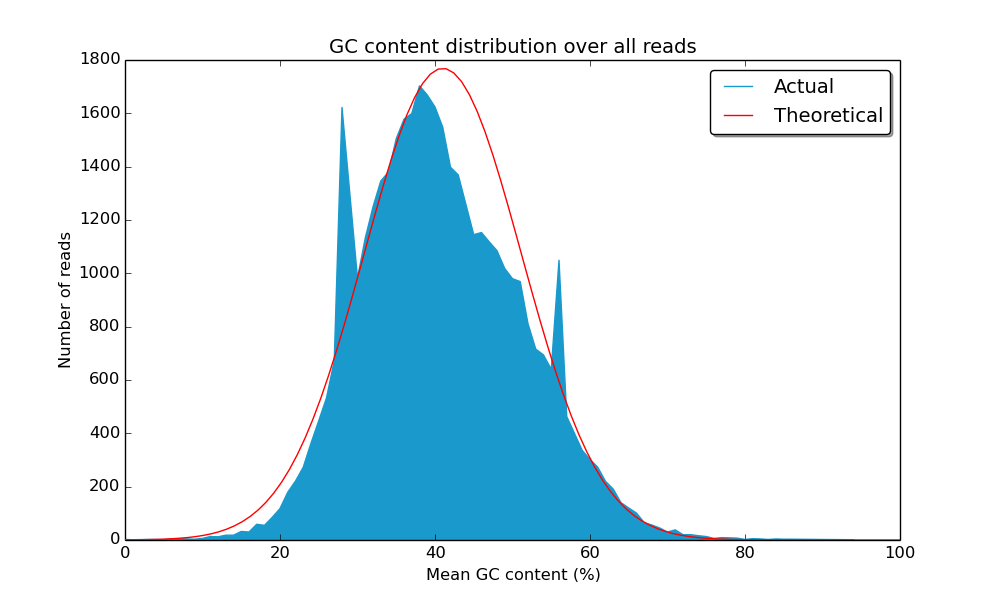
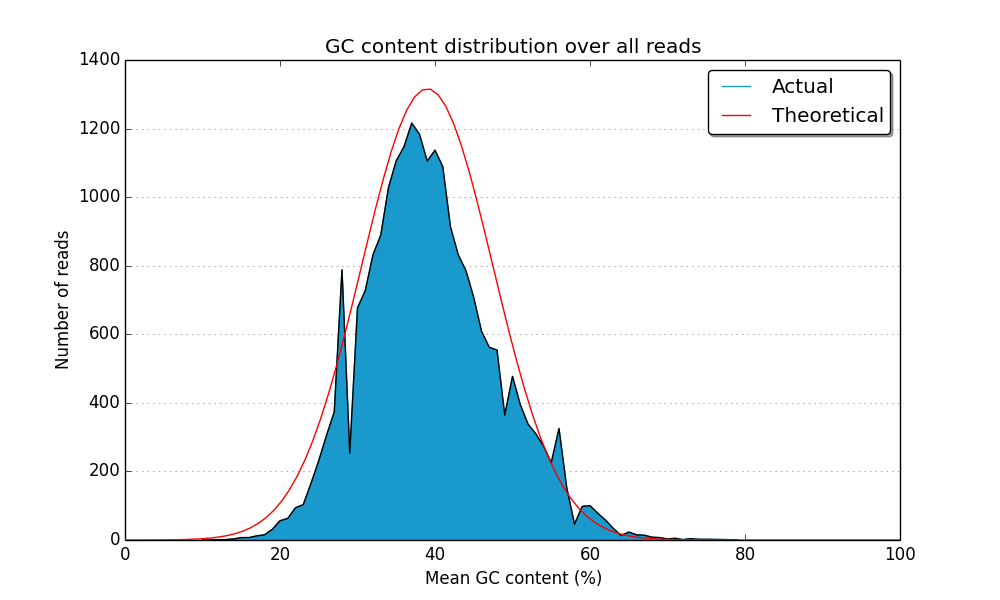
updated color schemes and examples

diff --git a/fastqp.py b/fastqp.py
@@ -336,8 +336,11 @@ def qualplot(positions, quantiles, filename, fig_kw):
     ax.plot(positions, Q2, color=(1.,.4,0.))
     ax.plot(positions, Q1, color=(1.,.2,0.))
     ax.plot(positions, Q2, color='black')
+    x1,x2,y1,y2 = ax.axis()
+    ax.axis((x1,x2,0,max(Q4)))
     box = ax.get_position()
     ax.set_position([box.x0, box.y0, box.width * 0.9, box.height])
+    ax.yaxis.grid(b=True, which='major', **{'color':'gray', 'linestyle':':'})
     ax.legend(('100-75%', '75-50%', '50-25%', '25-0%', 'Median'), bbox_to_anchor=(1, 0.5), 
                 fancybox=True, shadow=True, loc='center left')
     ax.set_title('Quality score percentiles across all bases in all reads')
@@ -353,15 +356,18 @@ def qualdist(qualities, filename, fig_kw):
     counts = Counter()
     for value in values:
         counts = counts + value
+    ax.plot(counts.keys(), counts.values(), color='black')
     ax.fill_between(counts.keys(), counts.values(), color=(0.1,0.6,0.8))
+    ax.yaxis.grid(b=True, which='major', **{'color':'gray', 'linestyle':':'})
+    ax.set_axisbelow(True)
+    x1,x2,y1,y2 = ax.axis()
+    ax.axis((x1,max(counts.keys()),y1,y2))
     ax.set_title('Quality score distribution across all base positions')
     ax.set_xlabel('Quality score (phred)')
     ax.set_ylabel('Number of positions (bp)')
     plt.savefig(filename + '_qualdist.png')
     
 def qualmap(qualities, filename, fig_kw):
-    for key in qualities.keys():
-        print qualities[key]
     fig = plt.figure(**fig_kw)
     ax = fig.add_subplot(111)
     fig.subplots_adjust(top=0.95)
@@ -378,12 +384,9 @@ def qualmap(qualities, filename, fig_kw):
                 heat_map[q][p] = qualities[p+1][q+1]
             except KeyError:
                 pass
-        sys.stderr.write('\n')
-    for row in heat_map:
-        print row
     imax = ax.imshow(np.array(heat_map), cmap=plt.cm.gist_heat, origin='lower', interpolation='none')
     cbar = fig.colorbar(imax, orientation='horizontal')
-    cbar.ax.set_title('Density')
+    cbar.ax.set_title('counts')
     ax.set_title('Quality score density across all base positions')
     ax.set_xlabel('Position in read (bp)')
     ax.set_ylabel('Quality score (phred)')
@@ -391,41 +394,38 @@ def qualmap(qualities, filename, fig_kw):
     
 def nucplot(positions, nucs, counts, filename, fig_kw):
     max_depth = sum(counts[0].values())
-    colors = [(.5,.5,.5),
-              (1,0,0),
-              (0,1,0),
-              (0,.5,1),
-              (1,1,0),
-              (0,1,1),
-              (1,0,1),
-              (1,1,1),
-              (.5,0,0),
-              (0,.5,0)]
+    cmap = mpl.cm.get_cmap(name='Set1')
+    colors = [cmap(i) for i in np.linspace(0, 1, len(nucs))]
     mpl.rc('axes', color_cycle=colors)
-    fig, axes = plt.subplots(nrows=1, subplot_kw={'axis_bgcolor':'black'}, **fig_kw)
+    fig, axes = plt.subplots(nrows=1, subplot_kw={'axis_bgcolor':'white'}, **fig_kw)
     for i,count in enumerate(counts):
         max_depth = sum(count.values())
         for nuc in nucs:
             counts[i][nuc] = float(count[nuc]) / max_depth * 100
-    for nuc in nucs:
-        axes.plot(positions, [count[nuc] for count in counts])
+    nuc_order = ['A','T','C','G','N','M','R','W','S','Y','K','V','H','D','B']
+    for nuc in nuc_order:
+        if nuc in nucs:
+            axes.plot(positions, [count[nuc] for count in counts])
     # Shink current axis by 20%
     box = axes.get_position()
     axes.set_position([box.x0, box.y0, box.width * 0.9, box.height])
+    axes.yaxis.grid(b=True, which='major', **{'color':'gray', 'linestyle':':'})
+    axes.set_axisbelow(True)
     axes.set_title('Sequence content across all bases in all reads')
     axes.set_xlabel('Position in read (bp)')
-    axes.set_ylabel('Sequence content (% basecall)')
-    legend = axes.legend(tuple(nucs), bbox_to_anchor=(1, 0.5), 
+    axes.set_ylabel('Sequence content (% basecall)')     
+    legend = axes.legend(tuple((n for n in nuc_order if n in nucs)), bbox_to_anchor=(1, 0.5), 
                 fancybox=True, shadow=True, loc='center left')
     frame = legend.get_frame()
-    frame.set_facecolor('black')
+    frame.set_facecolor('white')
     for label in legend.get_texts():
-        label.set_color('white')
+        label.set_color('black')
     plt.savefig(filename + '_nucs.png')
     
 def depthplot(positions, depths, filename, fig_kw):
     fig, axes = plt.subplots(nrows=1, **fig_kw)
-    axes.fill_between(positions, depths, color=(0.1,0.6,0.8))
+    axes.plot(positions, depths, color=(0.1,0.6,0.8))
+    axes.yaxis.grid(b=True, which='major', **{'color':'gray', 'linestyle':':'})
     axes.set_title('Coverage of each position across all reads')
     axes.set_xlabel('Position in read (bp)')
     axes.set_ylabel('Number of reads')
@@ -440,6 +440,8 @@ def gcplot(positions, counts, filename, fig_kw):
     axes.plot(positions, gcs, color=(0.1,0.6,0.8))
     x1,x2,y1,y2 = axes.axis()
     axes.axis((x1,x2,0,100))
+    axes.yaxis.grid(b=True, which='major', **{'color':'gray', 'linestyle':':'})
+    axes.set_axisbelow(True)
     axes.set_title('GC content across all bases in all reads')
     axes.set_xlabel('Position in read (bp)')
     axes.set_ylabel('GC (%)')
@@ -452,6 +454,7 @@ def gcdist(counts, filename, fig_kw):
     sigma = math.sqrt(variance)
     x = np.linspace(0,100,100)
     fig, axes = plt.subplots(nrows=1, **fig_kw)
+    axes.plot(counts.keys(), counts.values(), color='black')
     axes.fill_between(counts.keys(), counts.values(), color=(0.1,0.6,0.8))
     axes2 = axes.twinx()
     axes2.plot(x,mlab.normpdf(x,m,sigma), color='red')
@@ -463,6 +466,8 @@ def gcdist(counts, filename, fig_kw):
     legend = axes.legend([handle for i,handle in enumerate(handles) if i in display]+[a,b],
                          [label for i,label in enumerate(labels) if i in display]+['Actual','Theoretical'],
                 fancybox=True, shadow=True)
+    axes.yaxis.grid(b=True, which='major', **{'color':'gray', 'linestyle':':'})
+    axes.set_axisbelow(True)
     axes.set_title('GC content distribution over all reads')
     axes.set_xlabel('Mean GC content (%)')
     axes.set_ylabel('Number of reads')

diff --git a/README.md b/README.md
@@ -59,43 +59,55 @@ Examples
 
 ![depth plot](https://raw.github.com/mdshw5/fastqp/master/examples/example_depth.png)
 
+![quality heatmap](https://raw.github.com/mdshw5/fastqp/master/examples/example_qualmap.png)
+
 ![quality distribution](https://raw.github.com/mdshw5/fastqp/master/examples/example_qualdist.png)
 
 ### Tabular output
 
     Pos	Depth	0.05	0.25	0.5	0.75	0.95	A	C	T	G	N
-    1	4.0E+04	30	31	33	34	34	11750	8400	10644	9194	12
-    2	4.0E+04	30	31	34	34	34	12589	7843	11610	7958	0
-    3	4.0E+04	30	31	34	34	34	11808	7788	12924	7480	0
-    4	4.0E+04	33	35	37	37	37	11498	8445	12273	7784	0
-    5	4.0E+04	32	35	37	37	37	11637	7696	11703	8890	74
-    6	4.0E+04	32	35	37	37	37	11791	7954	11303	8952	0
-    7	4.0E+04	33	35	37	37	37	12552	7821	11594	8033	0
-    8	4.0E+04	33	35	37	37	37	12554	7829	12086	7531	0
-    9	4.0E+04	36	38	39	39	39	11291	7902	12079	8728	0
-    10	4.0E+04	36	38	39	39	39	12467	7831	11690	8012	0
-    11	4.0E+04	36	38	39	39	39	11534	8008	11494	8964	0
-    12	4.0E+04	36	38	39	39	39	11517	8748	11677	8058	0
-    13	4.0E+04	36	38	39	39	39	12225	8182	11744	7849	0
-    14	4.0E+04	32	38	40	41	41	11626	9020	11535	7819	0
-    15	4.0E+04	36	39	40	41	41	12546	7842	11627	7985	0
-    16	4.0E+04	36	39	40	41	41	11456	8867	11616	8061	0
-    17	4.0E+04	32	39	40	41	41	11445	8029	11557	8969	0
-    18	4.0E+04	32	38	40	41	41	11540	7941	12639	7880	0
-    19	4.0E+04	36	39	40	41	41	11422	8838	11794	7946	0
-    20	4.0E+04	32	39	40	41	41	11485	8037	12497	7964	17
+    1	2.3E+04	2	27	31	31	33	6087	4377	6552	3736	2228
+    2	2.3E+04	2	25	31	31	34	7246	3254	6063	4569	1848
+    3	2.3E+04	16	26	30	31	34	7782	3858	6084	4787	469
+    4	2.3E+04	27	32	35	35	37	7534	4064	6128	5249	5
+    5	2.3E+04	27	32	35	35	37	6957	4479	6696	4845	3
+    6	2.3E+04	27	32	35	35	37	7162	4517	6510	4782	9
+    7	2.3E+04	26	32	35	36	37	6969	4580	6747	4676	8
+    8	2.3E+04	26	32	35	36	37	7021	4613	6726	4610	10
+    9	2.3E+04	25	33	35	38	39	6955	4588	6955	4474	8
+    10	2.3E+04	23	32	37	38	39	6978	4654	6801	4541	6
+    11	2.3E+04	25	33	35	38	39	6968	4581	6872	4553	6
+    12	2.3E+04	23	32	35	38	39	7052	4579	6817	4527	5
+    13	2.3E+04	25	33	35	38	39	7083	4607	6915	4372	3
+    14	2.3E+04	24	33	37	39	41	7021	4616	6776	4565	2
+    15	2.3E+04	24	33	37	39	41	7092	4566	6840	4480	2
+    16	2.3E+04	24	33	37	39	41	6929	4594	6864	4589	4
+    17	2.3E+04	24	33	37	39	41	6942	4571	6860	4604	3
+    18	2.3E+04	24	33	37	39	41	6999	4605	6836	4537	3
+    19	2.3E+04	21	32	37	39	41	6952	4722	6810	4493	3
+    20	2.3E+04	21	32	37	39	41	7000	4633	6849	4494	4
+    21	2.3E+04	21	32	37	39	41	6909	4659	6793	4617	2
+    22	2.3E+04	21	32	37	39	41	7031	4594	6786	4567	2
+    23	2.3E+04	21	32	37	39	41	6968	4642	6787	4583	0
+    24	2.3E+04	21	32	37	39	41	6922	4656	6779	4622	1
+    25	2.3E+04	21	32	37	39	41	6948	4628	6690	4713	1
+    26	2.3E+04	18	32	37	39	41	6942	4593	6759	4685	1
+    27	2.3E+04	18	32	37	39	40	6900	4704	6791	4582	1
+    28	2.3E+04	18	32	36	39	40	7005	4488	6822	4654	4
+    29	2.3E+04	21	32	36	39	40	6891	4655	6751	4667	1
+    30	2.3E+04	16	32	36	39	40	7062	4586	6770	4540	3
     .........................
     kmer	count
-    AAAAA	25875
-    TTTTT	22832
-    ATTTT	14088
-    AAAAT	13886
-    TATTT	12018
-    AAATA	11903
-    AGAAA	11830
-    TTTTA	11826
-    TTTCT	11761
-    TAAAA	11567
+    GTACA	17874
+    ATAAA	12880
+    CTGCT	12772
+    TGCTG	12768
+    ACTGC	12648
+    CTGTA	12207
+    GCTGT	11781
+    TGTAC	11521
+    AAAGT	11159
+    TAAAG	10748
     
 Acknowledgements
 ----------------
